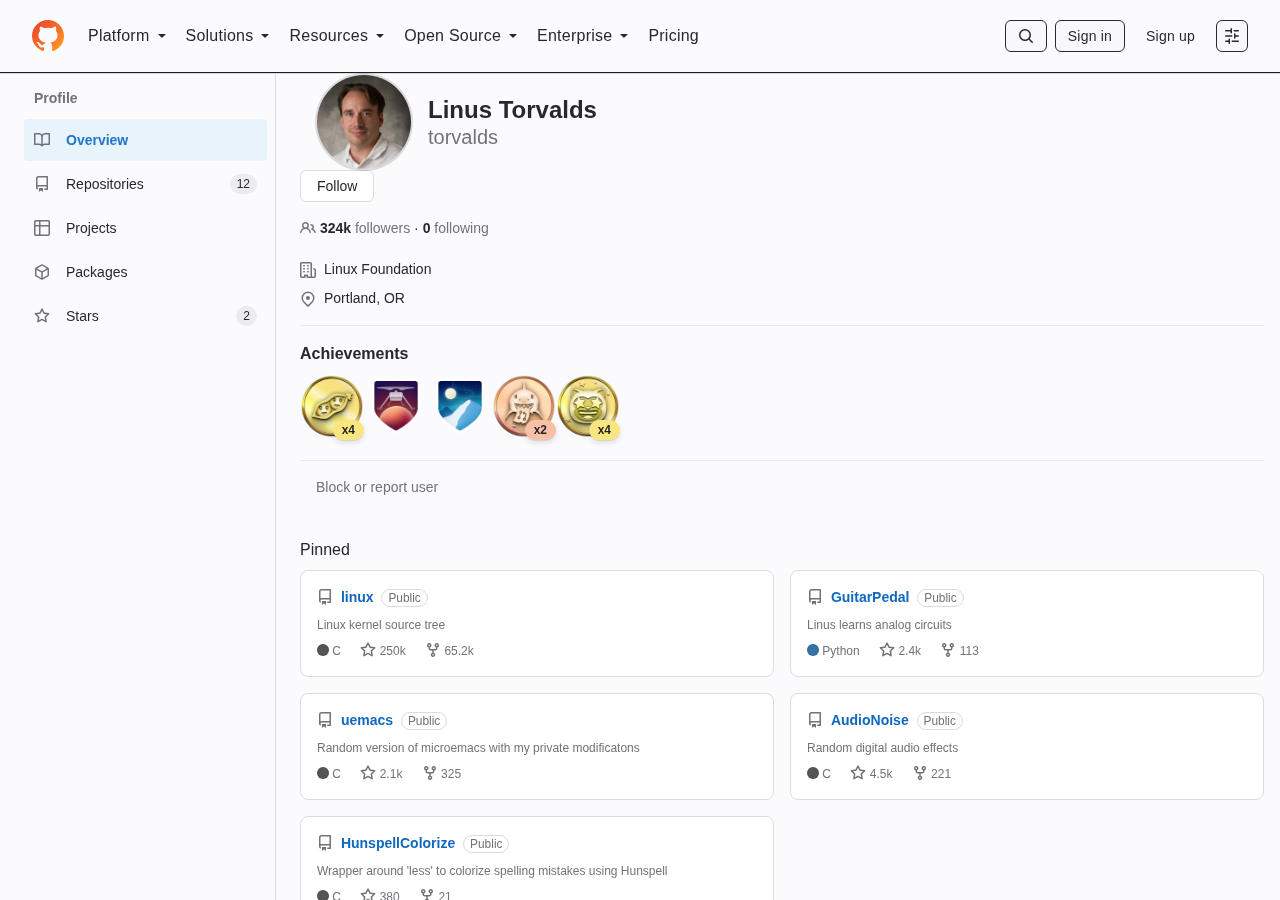
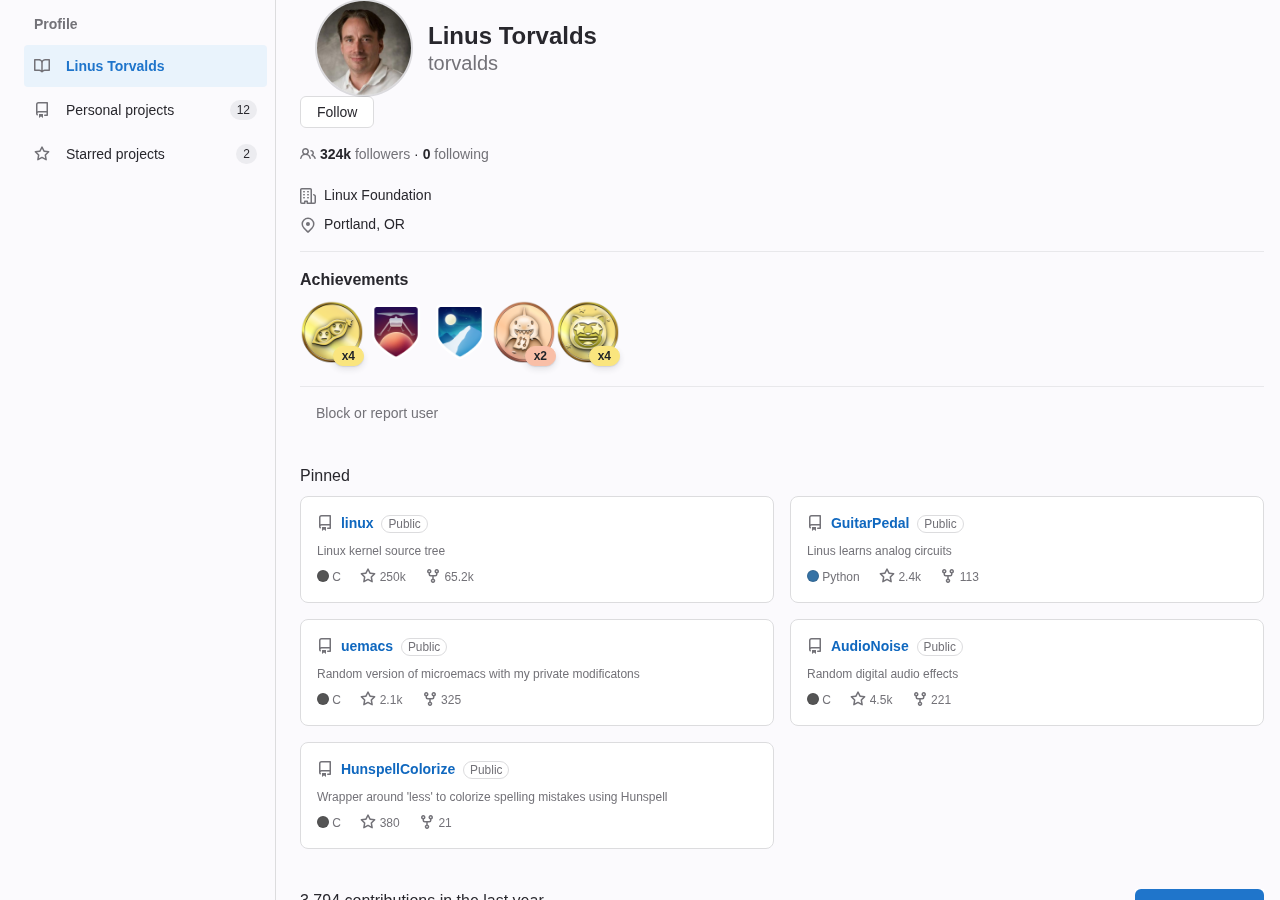
feat(ux): relabel profile navigation to the applied product
A profile's menu now reads as one product's: the shared destinations take the applied product's words (Repositories <-> Personal projects, Stars <-> Starred projects, GitLab Groups <-> GitHub Organizations) and each landing item takes the other's (Overview <-> the account name). Destinations the applied product has no profile page for are hidden, and GitLab's About/Info/Contact headings are dropped from GitHub's card. e2e covers both navs.

diff --git a/src/content/ux.js b/src/content/ux.js
@@ -327,6 +327,105 @@
     if (!existing) identity.appendChild(box);
   }
 
+  // A profile page's navigation offers different destinations on each product.
+  // Under a skin, each item takes the applied product's word where the two share
+  // a destination, and an item the applied product has no profile page for is
+  // hidden — so the menu reads as one product's, not a mix of both. The landing
+  // item has no shared word: GitHub says "Overview", GitLab shows the account's
+  // name, so each is given the other's landing label.
+  const PROFILE_NAV = {
+    // GitLab profile -> GitHub labels (after the copy/control passes).
+    github: {
+      'Personal projects': 'Repositories',
+      'Starred projects': 'Stars',
+      'Your stars': 'Stars',
+      Groups: 'Organizations',
+      Activity: null,
+      'Contributed projects': null,
+      Snippets: null,
+      Gists: null,
+    },
+    // GitHub profile -> GitLab labels.
+    gitlab: {
+      Repositories: 'Personal projects',
+      Stars: 'Starred projects',
+      Projects: null,
+      Packages: null,
+    },
+  };
+  const profileHiddenOrig = new Map();
+
+  // Relabel one item by replacing the text node that holds its label, so the
+  // icon and any counter are left in place.
+  function setProfileLabel(el, key, to) {
+    for (const text of textNodes(el)) {
+      const current = text.nodeValue.trim();
+      if (!UX.labelMatches(current, key)) continue;
+      rememberText(text);
+      const next = text.nodeValue.replace(current, to);
+      if (text.nodeValue !== next) text.nodeValue = next;
+      return;
+    }
+  }
+
+  function hideProfileItem(el) {
+    const target = el.closest('li') || el;
+    if (!profileHiddenOrig.has(target)) {
+      profileHiddenOrig.set(target, target.style.display);
+    }
+    target.style.setProperty('display', 'none', 'important');
+  }
+
+  function paintProfileNav(t) {
+    const table = PROFILE_NAV[t];
+    if (!table || !document.body) return;
+    const lists =
+      document.body.dataset.page === 'users:show'
+        ? [...document.querySelectorAll('.super-sidebar .gl-scroll-scrim ul')]
+        : [...document.querySelectorAll('nav[aria-label="User profile"]')];
+    if (!lists.length) return;
+    // GitHub's card has no "About"/"Info"/"Contact" headings; GitLab's card
+    // does, so they are dropped rather than left as foreign labels.
+    if (t === 'github') {
+      for (const heading of document.querySelectorAll('.user-profile-sidebar h2')) {
+        const text = (heading.textContent || '').trim();
+        if (text === 'About' || text === 'Info' || text === 'Contact') {
+          hideProfileItem(heading);
+        }
+      }
+    }
+    const name = (
+      (document.querySelector('.h-card .p-name') || {}).textContent || ''
+    ).trim();
+    for (const list of lists) {
+      [...list.querySelectorAll('a')].forEach((el, index) => {
+        // The label without the icon, the counter or any `≠` badge.
+        const label = textNodes(el)
+          .map((n) => n.nodeValue)
+          .join(' ')
+          .replace(/\s+/g, ' ')
+          .trim();
+        if (!label) return;
+        // The landing item: GitHub's "Overview" <-> GitLab's name item.
+        if (t === 'github' && index === 0) {
+          setProfileLabel(el, label, 'Overview');
+          return;
+        }
+        if (t === 'gitlab' && UX.labelMatches(label, 'Overview') && name) {
+          setProfileLabel(el, label, name);
+          return;
+        }
+        for (const key of Object.keys(table)) {
+          if (!UX.labelMatches(label, key)) continue;
+          const to = table[key];
+          if (to) setProfileLabel(el, key, to);
+          else hideProfileItem(el);
+          return;
+        }
+      });
+    }
+  }
+
   // The per-node passes, in one place so a new pass cannot be wired into the
   // initial load but forgotten for the mutations that follow it.
   function paintNode(node, t) {
@@ -345,6 +444,7 @@
     paintOrder(t);
     paintNavGroups(t);
     paintProfileStats(t);
+    paintProfileNav(t);
     applying = false;
   }
 
@@ -370,11 +470,17 @@
     }
     for (const el of document.querySelectorAll('.gs-nav-group')) el.remove();
     for (const el of document.querySelectorAll('[data-gs-profile-stats]')) el.remove();
+    for (const [el, display] of profileHiddenOrig) {
+      if (!el.isConnected) continue;
+      if (display) el.style.display = display;
+      else el.style.removeProperty('display');
+    }
     textOrig.clear();
     attrOrig.clear();
     refOrig.clear();
     orderOrig.clear();
     markerOrig.clear();
+    profileHiddenOrig.clear();
   }
 
   /* -------------------------------------------------------------- boot -- */
@@ -411,6 +517,7 @@
       paintOrder(current);
       paintNavGroups(current);
       paintProfileStats(current);
+      paintProfileNav(current);
     }, 120);
   }
 

diff --git a/docs/index.html b/docs/index.html
@@ -190,7 +190,8 @@
         <p class="sub">
           Left: GitLab as it ships — a vertical <b class="gitlab">super-sidebar</b>
           starting at the person's name. Right: the same page skinned as GitHub —
-          a flat <b class="github">row of tabs</b>, with the identity in a left
+          a flat <b class="github">row of tabs</b> relabelled to GitHub's words
+          (Overview, Repositories, Stars), with the identity in a left
           <b class="github">card</b> under a large avatar — the
           follower/following counts and location brought down from the
           navigation.
@@ -212,7 +213,8 @@
           Left: GitHub as it ships — a horizontal
           <b class="github">profile tab row</b>. Right: the same page skinned as
           GitLab — a full-height <b class="gitlab">super-sidebar</b> headed
-          "Profile", with the profile header moved into the content.
+          "Profile" and relabelled to GitLab's words (Personal projects, Starred
+          projects), with the profile header moved into the content.
         </p>
         <div class="swipe">
           <img class="base" src="github-profile-default.png" alt="GitHub profile page, default" />

diff --git a/docs/PROFILE-PAGE-UX.md b/docs/PROFILE-PAGE-UX.md
@@ -73,14 +73,17 @@ GitLab exposes an **activity RSS feed** and keeps followers/following as
 navigation destinations. Sponsors and Marketplace are the two the skin already
 marks as having no counterpart (see `UNMAPPED`).
 
-### 6. Near-pairs that are not exact pairs
+### 6. Near-pairs the skin now translates
 
-Several labels look like counterparts but are not, which is why they are absent
-from the navigation tables rather than translated: GitHub **Repositories** vs
-GitLab **Personal projects**, GitHub **Stars** vs GitLab **Starred projects**,
-GitLab profile **Snippets** vs GitHub's account-level **Gists**. The account
-dropdown pair `Your gists ⇄ Your snippets` is in `CHROME`, but it is the *menu*
-label, not a profile tab — GitHub has no Snippets/Gists tab on a profile at all.
+Several labels name the same destination without matching word for word. The
+profile navigation translates them anyway: GitHub **Repositories** ⇄ GitLab
+**Personal projects**, GitHub **Stars** ⇄ GitLab **Starred projects**, and GitLab
+**Groups** ⇄ GitHub **Organizations**. GitHub's landing item is **Overview**;
+GitLab's is the account's name, so under a skin each takes the other's label.
+Destinations the applied product has no profile page for — GitLab's Activity and
+Contributed projects, GitLab's Snippets (GitHub keeps Gists in the account menu,
+not on a profile), GitHub's Projects and Packages — are hidden rather than shown
+in the other product's words.
 
 ## Where they agree
 
@@ -94,13 +97,13 @@ label, not a profile tab — GitHub has no Snippets/Gists tab on a profile at al
 
 ## What gitalike maps
 
-The profile page is largely unmapped territory for the vocabulary tables, and
-deliberately so — there is little exact vocabulary to carry across. What does
-apply:
+Most of the profile's vocabulary has no exact counterpart, so the copy tables
+(`PHRASES`, `LABELS`) do not carry it. What applies:
 
 | Surface | GitHub | GitLab | Lives in |
 | --- | --- | --- | --- |
 | Account chrome (dropdown) | Your repositories, Your stars, Your gists, Your organizations | Your projects, Starred projects, Your snippets, Your groups | `CHROME` |
+| Profile navigation | Overview, Repositories, Projects, Packages, Stars | the name, Activity, Groups, Contributed/Personal/Starred projects, Snippets, Followers, Following | `content/ux.js` — relabelled, and hidden where the other product has no page |
 | No counterpart | Sponsors, Marketplace | (GitLab lacks them) | `UNMAPPED` |
 | Reference marker | `#42` | `!42` | `refMarker` |
 | Shortcuts | GitHub's `g`-combos replay | GitLab's, delivered as clicks | `SHORTCUTS`, `SHORTCUT_TARGETS` |
@@ -122,13 +125,12 @@ Two scoping facts make the profile behave differently from the project page:
   place for, are hidden. The identity also moves from a top header with a small
   avatar into a left card under a large avatar, with the README/activity beside
   it, which is GitHub's profile shape.
-- **Profile navigation labels are not in `NAV`.** `NAV_SCOPE` includes
-  `.super-sidebar`, so the relabelling pass runs there, but `NAV` holds only the
-  repository-group labels (Code, Pull requests, …). GitLab's profile items —
-  Activity, Groups, Contributed projects, Personal projects, Starred projects,
-  Snippets, Followers, Following — and GitHub's profile tabs pass through
-  untouched. The near-pairs in §6 are the reason: none is an exact match for a
-  repository label, and several have no clean counterpart.
+- **Profile navigation is mapped in `content/ux.js`, not `NAV`.** `NAV` carries
+  the repository-group labels only, and a profile's destinations are a different
+  set. Each profile menu item therefore takes the applied product's word where
+  the two share a destination, or is hidden where they do not, and the landing
+  item is labelled with the other product's landing (see §6). This is a
+  behaviour the tables cannot express: it needs the page, not just a label.
 
 **Open on the other host** is absent on a profile, in both directions. That is
 correct rather than a gap: a profile is not an `owner/repo` path, and the two

diff --git a/docs/UX-PARITY.md b/docs/UX-PARITY.md
@@ -156,8 +156,12 @@ group it is flattened to one row of tabs: the "Profile" heading and the Help
 menu are hidden. The GitLab profile is also re-shaped into GitHub's card: the
 identity (avatar over the name) and the Info/Contact rail move into a left
 column, with the README/activity beside them, and the follower/following counts
-are copied out of the navigation to sit under the photo. (GitLab publishes no
-organisation on a profile, so that line cannot be shown.)
+are copied out of the navigation to sit under the photo. Menu items are
+relabelled to the applied product — `Repositories` ⇄ `Personal projects`,
+`Stars` ⇄ `Starred projects`, `Groups` ⇄ `Organizations`, and each landing item
+takes the other's label — while a destination the applied product has no profile
+page for is hidden, so the menu never mixes the two vocabularies. (GitLab
+publishes no organisation on a profile, so that line cannot be shown.)
 
 ## References
 

diff --git a/CHANGELOG.md b/CHANGELOG.md
@@ -21,6 +21,12 @@ adheres to [Semantic Versioning](https://semver.org/spec/v2.0.0.html).
   shows them, with the navigation copies hidden (`content/ux.js`,
   `themes/ux-nav.css`). GitLab publishes no organisation on a profile, so that
   line stays absent.
+- Profile menu items are relabelled to the applied product: `Repositories` ⇄
+  `Personal projects`, `Stars` ⇄ `Starred projects`, `Groups` ⇄ `Organizations`,
+  and each landing item takes the other's label (GitHub's "Overview" ⇄ GitLab's
+  account name). A destination the applied product has no profile page for is
+  hidden, so a skinned profile's navigation no longer mixes the two
+  vocabularies (`content/ux.js`).
 - The GitHub Pages preview (`docs/index.html`) gains GitLab and GitHub
   profile-page swipes beside the project-page ones, captured with
   `npm run screenshots:profiles` (`tools/profile-screenshots.mjs`).
